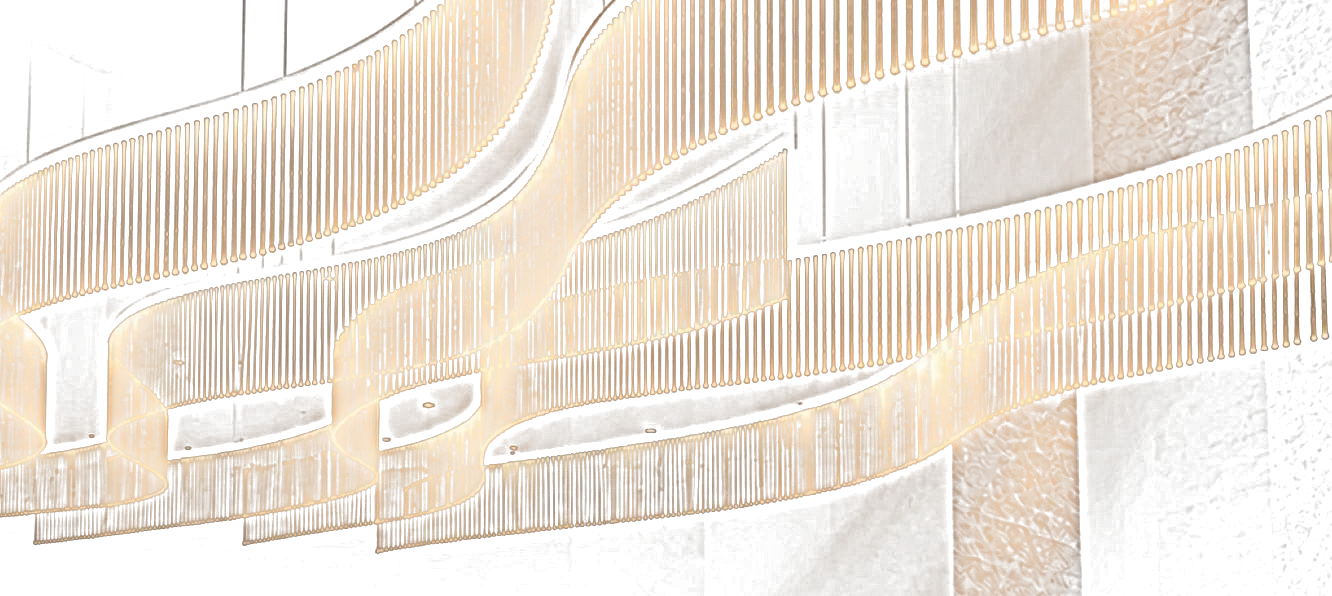
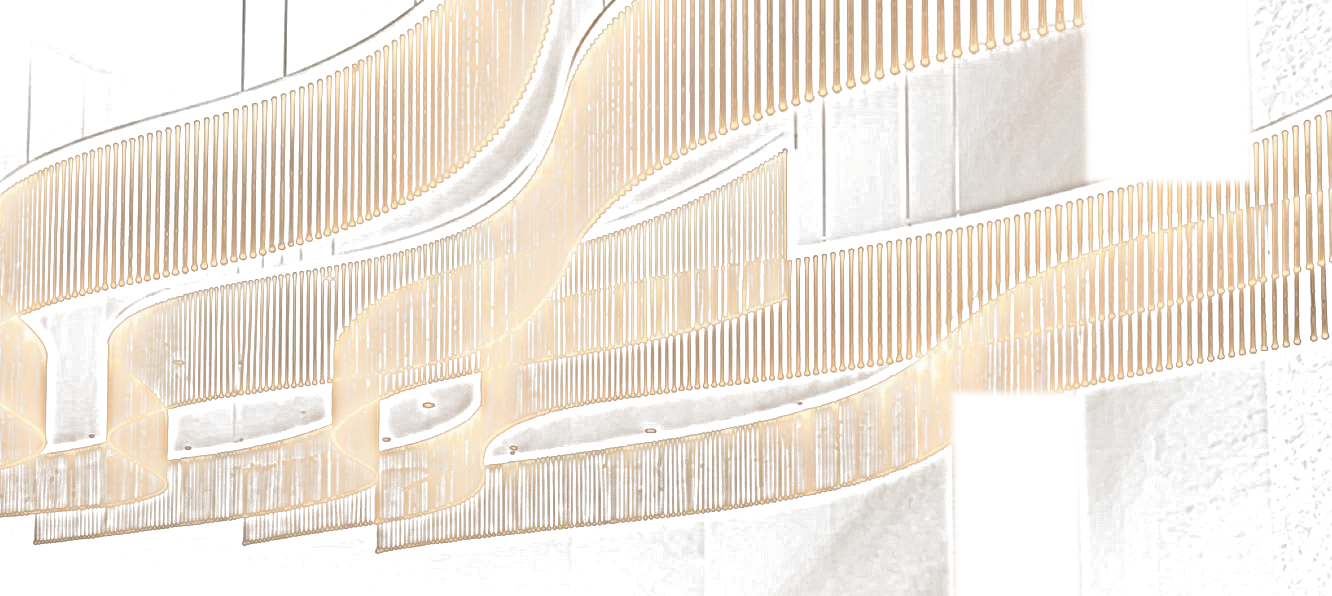
Hero: wave of light along the installation; outlined button; readable menu
A wavy light front sweeps along the ribbons with smaller ripples behind it,
follows the pointer, and carries on by itself (also on phones). Stone wall
panels no longer light up. Primary button matches the Contact button, and
the menu gets a soft shade so it stays readable over the photo.

Claude-Session: https://claude.ai/code/session_01GBHFG2CjgsK9Zf6edtyacW

Changed region(s): [[0.8003, 0.0, 0.9542, 0.3322], [0.708, 0.6342, 0.8311, 1.0]]

diff --git a/assets/js/main.js b/assets/js/main.js
@@ -126,65 +126,133 @@
   /* ---------- Hero: a light that drifts, or follows the pointer ---------- */
   var hero = document.getElementById("hero");
   var photo = hero.querySelector(".hero-photo");
+  var canvas = document.getElementById("heroWave");
   var IMG_W = 1332, IMG_H = 596;
-  // A route along the ribbons (image pixels) that the light follows when nobody is pointing.
-  var ROUTE = [[40, 330], [240, 255], [430, 150], [560, 70], [650, 150], [820, 300], [960, 360], [1120, 280], [1300, 140]];
+  var ctx = canvas.getContext && canvas.getContext("2d");
   var heroVisible = true;
-  var pointerActive = false;
-  var cur = { x: 0.6, y: 0.3 };
-  var target = { x: 0.6, y: 0.3 };
-  var t0 = performance.now();
 
-  // Position of an image pixel inside the hero photo box (matches background-size: cover).
-  function imgToBox(ix, iy, r) {
-    var scale = Math.max(r.width / IMG_W, r.height / IMG_H);
-    var posX = parseFloat(getComputedStyle(photo.querySelector(".hero-layer")).backgroundPositionX) / 100;
-    if (isNaN(posX)) posX = 0.5;
-    return { x: ix * scale + (r.width - IMG_W * scale) * posX, y: iy * scale };
-  }
+  if (ctx) {
+    var lines = new Image();
+    var linesReady = false;
+    lines.onload = function () { linesReady = true; };
+    lines.src = canvas.getAttribute("data-lines");
 
-  function routePoint(u) {
-    var n = ROUTE.length - 1, f = u * n, i = Math.min(n - 1, Math.floor(f)), k = f - i;
-    return [ROUTE[i][0] + (ROUTE[i + 1][0] - ROUTE[i][0]) * k, ROUTE[i][1] + (ROUTE[i + 1][1] - ROUTE[i][1]) * k];
-  }
+    var mask = document.createElement("canvas"), mctx = mask.getContext("2d");
+    var glow = document.createElement("canvas"), gctx = glow.getContext("2d");
+    var W = 1, H = 1, S = 1, OFFX = 0, DPR = 1, boxLeft = 0, boxTop = 0;
 
-  function paintLight() {
-    var r = photo.getBoundingClientRect();
-    hero.style.setProperty("--mx", (cur.x * r.width).toFixed(1) + "px");
-    hero.style.setProperty("--my", (cur.y * r.height).toFixed(1) + "px");
-  }
-
-  function placeOnRoute(u) {
-    var r = photo.getBoundingClientRect();
-    var p = routePoint(u), b = imgToBox(p[0], p[1], r);
-    target.x = Math.min(0.9, Math.max(0.1, b.x / r.width));
-    target.y = Math.min(0.9, Math.max(0.1, b.y / r.height));
-  }
-
-  // Reduced-motion visitors get the same light, drifting more slowly.
-  var speed = reduceMotion ? 0.1 : 0.28;
-  {
-    hero.addEventListener("pointermove", function (e) {
+    function measure() {
       var r = photo.getBoundingClientRect();
-      target.x = Math.min(1, Math.max(0, (e.clientX - r.left) / r.width));
-      target.y = Math.min(1, Math.max(0, (e.clientY - r.top) / r.height));
+      DPR = Math.min(window.devicePixelRatio || 1, 1.25);
+      W = Math.max(1, Math.round(r.width * DPR));
+      H = Math.max(1, Math.round(r.height * DPR));
+      canvas.width = mask.width = W;
+      canvas.height = mask.height = H;
+      glow.width = Math.max(1, Math.round(W / 6));
+      glow.height = Math.max(1, Math.round(H / 6));
+      var posX = parseFloat(getComputedStyle(hero.querySelector(".hero-layer")).backgroundPositionX) / 100;
+      if (isNaN(posX)) posX = 0.5;
+      S = Math.max(W / IMG_W, H / IMG_H);
+      OFFX = (W - IMG_W * S) * posX;
+      boxLeft = r.left; boxTop = r.top;
+    }
+    measure();
+    window.addEventListener("resize", measure);
+
+    // The wave runs along the ribbons: their direction is about 18 degrees uphill.
+    var ANG = -18 * Math.PI / 180;
+    var DX = Math.cos(ANG), DY = Math.sin(ANG);     // along the ribbons
+    var PX = -DY, PY = DX;                          // across them (the wave front)
+    var U_MIN = -420, U_MAX = 1450;                 // extent of the installation along its length
+    var speed = reduceMotion ? 160 : 330;           // image px per second
+    var u0 = U_MIN, wait = 0.6;
+    var pointerActive = false, pointerU = 0, uCur = U_MIN, amp = 0, ampTarget = 1, lastMove = 0;
+    var last = performance.now();
+
+    function pointerToU(clientX, clientY) {
+      var ix = ((clientX - boxLeft) * DPR - OFFX) / S, iy = ((clientY - boxTop) * DPR) / S;
+      return ix * DX + iy * DY;
+    }
+
+    hero.addEventListener("pointermove", function (e) {
+      pointerU = pointerToU(e.clientX, e.clientY);
+      if (!pointerActive) uCur = pointerU;
       pointerActive = true;
+      lastMove = performance.now();
     });
-    hero.addEventListener("pointerleave", function () { pointerActive = false; });
+    hero.addEventListener("pointerleave", function () { pointerActive = false; u0 = uCur; wait = 0.4; });
 
     if ("IntersectionObserver" in window) {
       new IntersectionObserver(function (es) { heroVisible = es[0].isIntersecting; }, { threshold: 0 }).observe(hero);
     }
 
+    // One soft wave front: a wavy line across the ribbons, stroked from wide and faint to thin and strong.
+    function crest(u, strength, phase, t) {
+      if (strength < 0.01) return;
+      var pts = [];
+      for (var s = -760; s <= 760; s += 40) {
+        var warp = 46 * Math.sin(s / 120 + phase + t * 1.2);
+        var ix = DX * (u + warp) + PX * s + IMG_W * 0.5 - DX * 560;
+        var iy = DY * (u + warp) + PY * s + IMG_H * 0.5 - DY * 560;
+        pts.push([ix * S + OFFX, iy * S]);
+      }
+      var W0 = 230 * S;
+      for (var k = 0; k < 7; k++) {
+        mctx.lineWidth = W0 * (1 - k / 7);
+        mctx.strokeStyle = "rgba(255,255,255," + (strength * 0.2).toFixed(3) + ")";
+        mctx.beginPath();
+        for (var i = 0; i < pts.length; i++) { if (i) mctx.lineTo(pts[i][0], pts[i][1]); else mctx.moveTo(pts[i][0], pts[i][1]); }
+        mctx.stroke();
+      }
+    }
+
     (function frame(now) {
-      if (heroVisible) {
-        if (!pointerActive) placeOnRoute(0.5 + 0.5 * Math.sin((now - t0) / 1000 * speed - 1.2));
-        cur.x += (target.x - cur.x) * 0.06;
-        cur.y += (target.y - cur.y) * 0.06;
-        paintLight();
+      var dt = Math.min(0.05, (now - last) / 1000);
+      last = now;
+      if (heroVisible && linesReady) {
+        var t = now / 1000;
+        // If nobody has moved for a moment (or a finger lifted), the wave carries on by itself.
+        if (pointerActive && now - lastMove > 2000) { pointerActive = false; u0 = uCur; wait = 0.3; }
+        if (pointerActive) {
+          uCur += (pointerU - uCur) * 0.14;
+          ampTarget = 1;
+        } else if (wait > 0) {
+          wait -= dt;
+          ampTarget = 0;
+          if (wait <= 0) { uCur = U_MIN; ampTarget = 1; }
+        } else {
+          uCur += speed * dt;
+          if (uCur > U_MAX) { wait = 1.1; ampTarget = 0; }
+        }
+        amp += (ampTarget - amp) * Math.min(1, dt * 6);
+
+        mctx.setTransform(1, 0, 0, 1, 0, 0);
+        mctx.clearRect(0, 0, W, H);
+        mctx.globalCompositeOperation = "lighter";
+        mctx.lineCap = "round"; mctx.lineJoin = "round";
+        // leading crest, then smaller ripples behind it
+        crest(uCur, amp, 0, t);
+        crest(uCur - 300, amp * 0.5, 1.7, t);
+        crest(uCur - 600, amp * 0.22, 3.1, t);
+
+        ctx.globalCompositeOperation = "source-over";
+        ctx.clearRect(0, 0, W, H);
+        ctx.drawImage(lines, OFFX, 0, IMG_W * S, IMG_H * S);
+        ctx.globalCompositeOperation = "destination-in";     // keep the strands only where the wave is
+        ctx.drawImage(mask, 0, 0);
+        ctx.globalCompositeOperation = "source-atop";        // warm gold
+        ctx.fillStyle = "rgba(226,160,70,.42)";
+        ctx.fillRect(0, 0, W, H);
+        gctx.clearRect(0, 0, glow.width, glow.height);       // soft bloom around the lit strands
+        gctx.drawImage(canvas, 0, 0, glow.width, glow.height);
+        ctx.globalCompositeOperation = "lighter";
+        ctx.globalAlpha = 0.9;
+        ctx.drawImage(glow, 0, 0, W, H);
+        ctx.globalAlpha = 1;
+        ctx.globalCompositeOperation = "source-over";
       }
       requestAnimationFrame(frame);
-    })(t0);
+    })(last);
   }
 
   /* ---------- Lighting study: choose lamp colour, drag the intensity ---------- */

diff --git a/assets/css/style.css b/assets/css/style.css
@@ -59,13 +59,13 @@ p { margin: 0; }
 .logo { display: flex; align-items: center; }
 .logo img { height: 38px; width: auto; }
 .nav { display: flex; align-items: center; gap: 32px; font-size: 14px; letter-spacing: .04em; }
-.nav a { color: var(--muted); transition: color .25s; }
+.nav a { color: rgba(236,239,243,.88); text-shadow: 0 1px 12px rgba(0,0,0,.8); transition: color .25s; }
 .nav a:hover { color: var(--gold-soft); }
-.nav .nav-cta { color: var(--gold); padding: 9px 20px; border: 1px solid rgba(201,154,91,.55); border-radius: 999px; }
+.nav .nav-cta { text-shadow: none; color: var(--gold); padding: 9px 20px; border: 1px solid rgba(201,154,91,.55); border-radius: 999px; }
 .nav .nav-cta:hover { background: var(--gold); color: var(--bg); }
 .header-tools { display: flex; align-items: center; gap: 12px; }
 .lang-switch { display: flex; border: 1px solid var(--line); border-radius: 999px; overflow: hidden; }
-.lang-switch button { font: 500 12px var(--sans); letter-spacing: .1em; color: var(--muted); background: transparent; border: 0; padding: 7px 13px; cursor: pointer; }
+.lang-switch button { font: 500 12px var(--sans); letter-spacing: .1em; color: rgba(236,239,243,.85); background: transparent; border: 0; padding: 7px 13px; cursor: pointer; }
 .lang-switch button[aria-pressed="true"] { background: var(--gold); color: var(--bg); }
 .menu-toggle { display: none; width: 40px; height: 40px; background: transparent; border: 0; cursor: pointer; position: relative; }
 .menu-toggle span { position: absolute; left: 9px; right: 9px; height: 1.5px; background: var(--text); transition: transform .3s, top .3s; }
@@ -76,8 +76,8 @@ p { margin: 0; }
 
 /* ---------- Buttons ---------- */
 .btn { display: inline-block; padding: 15px 30px; border-radius: 999px; font-weight: 500; font-size: 14px; letter-spacing: .06em; transition: background .3s, color .3s, border-color .3s; }
-.btn-gold { background: var(--gold); color: var(--bg); }
-.btn-gold:hover { background: var(--gold-soft); }
+.btn-gold { color: var(--gold); border: 1px solid rgba(201,154,91,.55); }
+.btn-gold:hover { background: var(--gold); color: var(--bg); }
 .btn-ghost { border: 1px solid rgba(236,239,243,.3); color: var(--text); }
 .btn-ghost:hover { border-color: var(--gold); color: var(--gold); }
 
@@ -104,14 +104,10 @@ p { margin: 0; }
 }
 .hero-layer { position: absolute; inset: 0; background: url("../img/hero-chandelier.jpg") 50% 0 / cover no-repeat; }
 .hero-layer.dim { filter: brightness(.2) saturate(.6); }
-/* The light only lives on the strands: a transparent copy of the lines, revealed around the light point */
-.hero-layer.lit, .hero-layer.bloom {
-  background-image: url("../img/hero-lines.webp");
-  -webkit-mask-image: radial-gradient(circle var(--r) at var(--mx) var(--my), #000 0%, rgba(0,0,0,.75) 30%, rgba(0,0,0,.25) 65%, transparent 100%);
-          mask-image: radial-gradient(circle var(--r) at var(--mx) var(--my), #000 0%, rgba(0,0,0,.75) 30%, rgba(0,0,0,.25) 65%, transparent 100%);
-}
-.hero-layer.lit { filter: brightness(1.05) sepia(.9) saturate(2.1) hue-rotate(-20deg); }
-.hero-layer.bloom { filter: blur(6px) brightness(1.05) sepia(.9) saturate(2.4) hue-rotate(-20deg); mix-blend-mode: screen; opacity: .6; }
+/* The wave of light is drawn on a canvas that only contains the glowing strands */
+.hero-wave { position: absolute; inset: 0; width: 100%; height: 100%; display: block; pointer-events: none; }
+.hero::before { content: ""; position: absolute; inset: 0; z-index: 1; pointer-events: none; background: linear-gradient(90deg, rgba(0,0,0,.7) 0%, rgba(0,0,0,.4) 38%, rgba(0,0,0,0) 68%); }
+.hero-content, .hero-foot { z-index: 2; }
 .hero-content { position: relative; padding-bottom: 96px; padding-top: 220px; }
 .hero .eyebrow { margin-bottom: 26px; }
 .hero h1 { font-size: clamp(44px, 7vw, 96px); letter-spacing: -.03em; text-shadow: 0 2px 40px rgba(0,0,0,.7); }
@@ -283,3 +279,7 @@ a.contact-item:hover span:last-child { color: var(--gold-soft); }
   .carousel-dots button { width: 7px; height: 7px; padding: 0; border: 0; border-radius: 50%; background: var(--line); cursor: pointer; transition: background .3s, width .3s; }
   .carousel-dots button[aria-current="true"] { width: 22px; border-radius: 4px; background: var(--gold); }
 }
+
+/* Keep the menu readable over the bright photo */
+.site-header::before { content: ""; position: absolute; inset: 0 0 -36px 0; z-index: -1; pointer-events: none; background: linear-gradient(180deg, rgba(0,0,0,.92) 0%, rgba(0,0,0,.7) 55%, rgba(0,0,0,0) 100%); }
+.site-header.scrolled::before { display: none; }

diff --git a/index.html b/index.html
@@ -52,8 +52,7 @@
   <section class="hero" id="hero">
     <div class="hero-photo" role="img" aria-label="Custom crystal light installation shaped like flowing ribbons">
       <div class="hero-layer dim"></div>
-      <div class="hero-layer lit"></div>
-      <div class="hero-layer bloom"></div>
+      <canvas class="hero-wave" id="heroWave" data-lines="assets/img/hero-lines.webp" aria-hidden="true"></canvas>
     </div>
     <div class="container hero-content">
       <p class="eyebrow" data-i18n="hero.eyebrow">Φωτοτεχνική μελέτη · Custom φωτιστικά</p>
